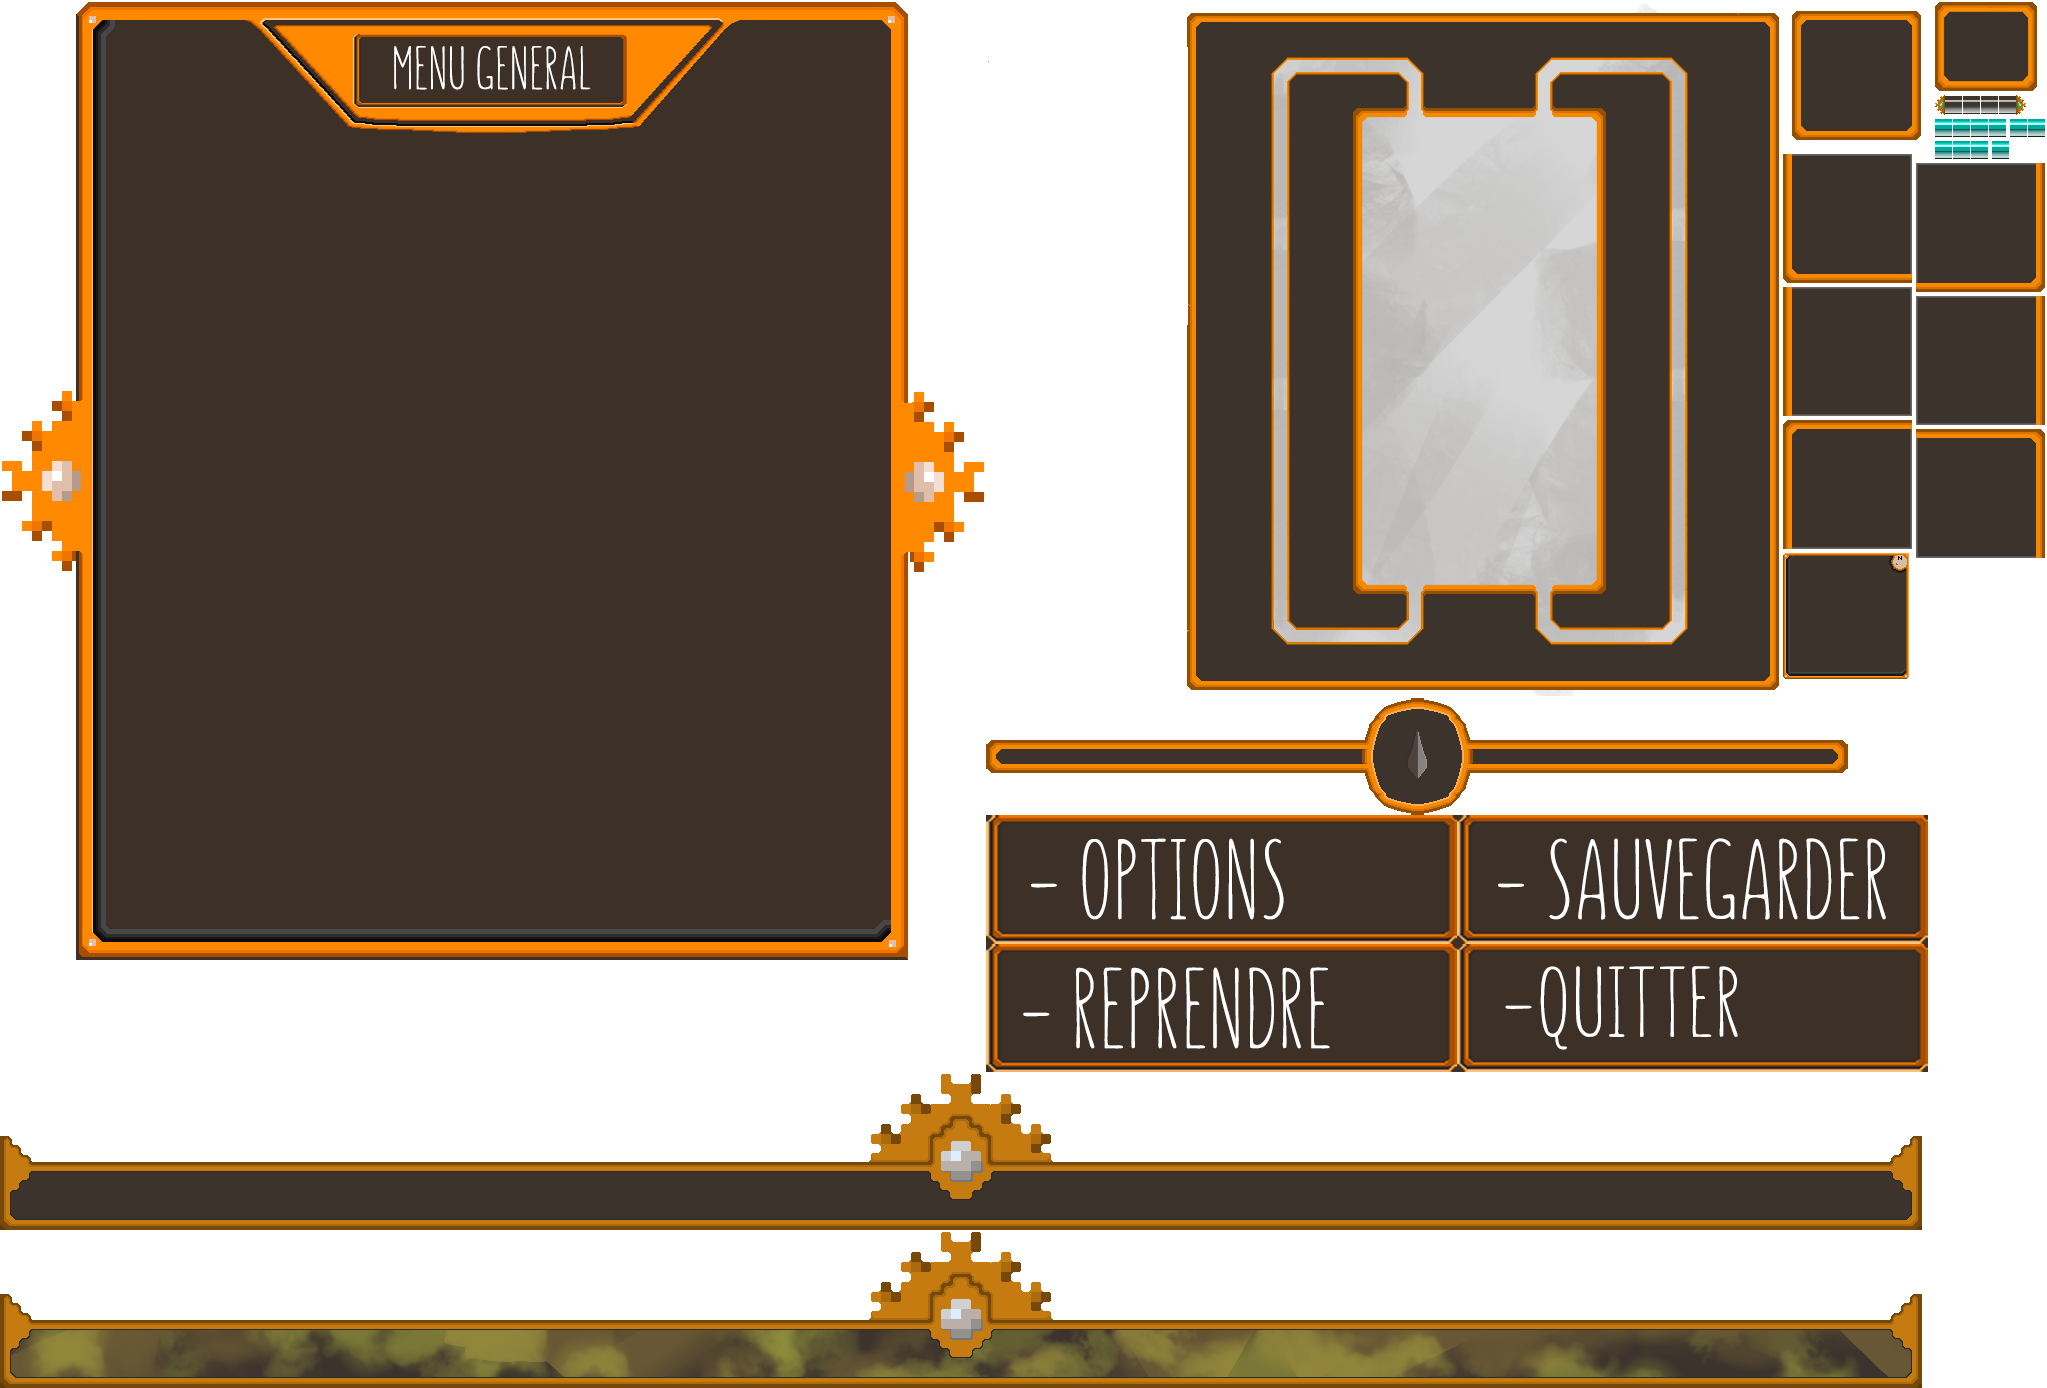
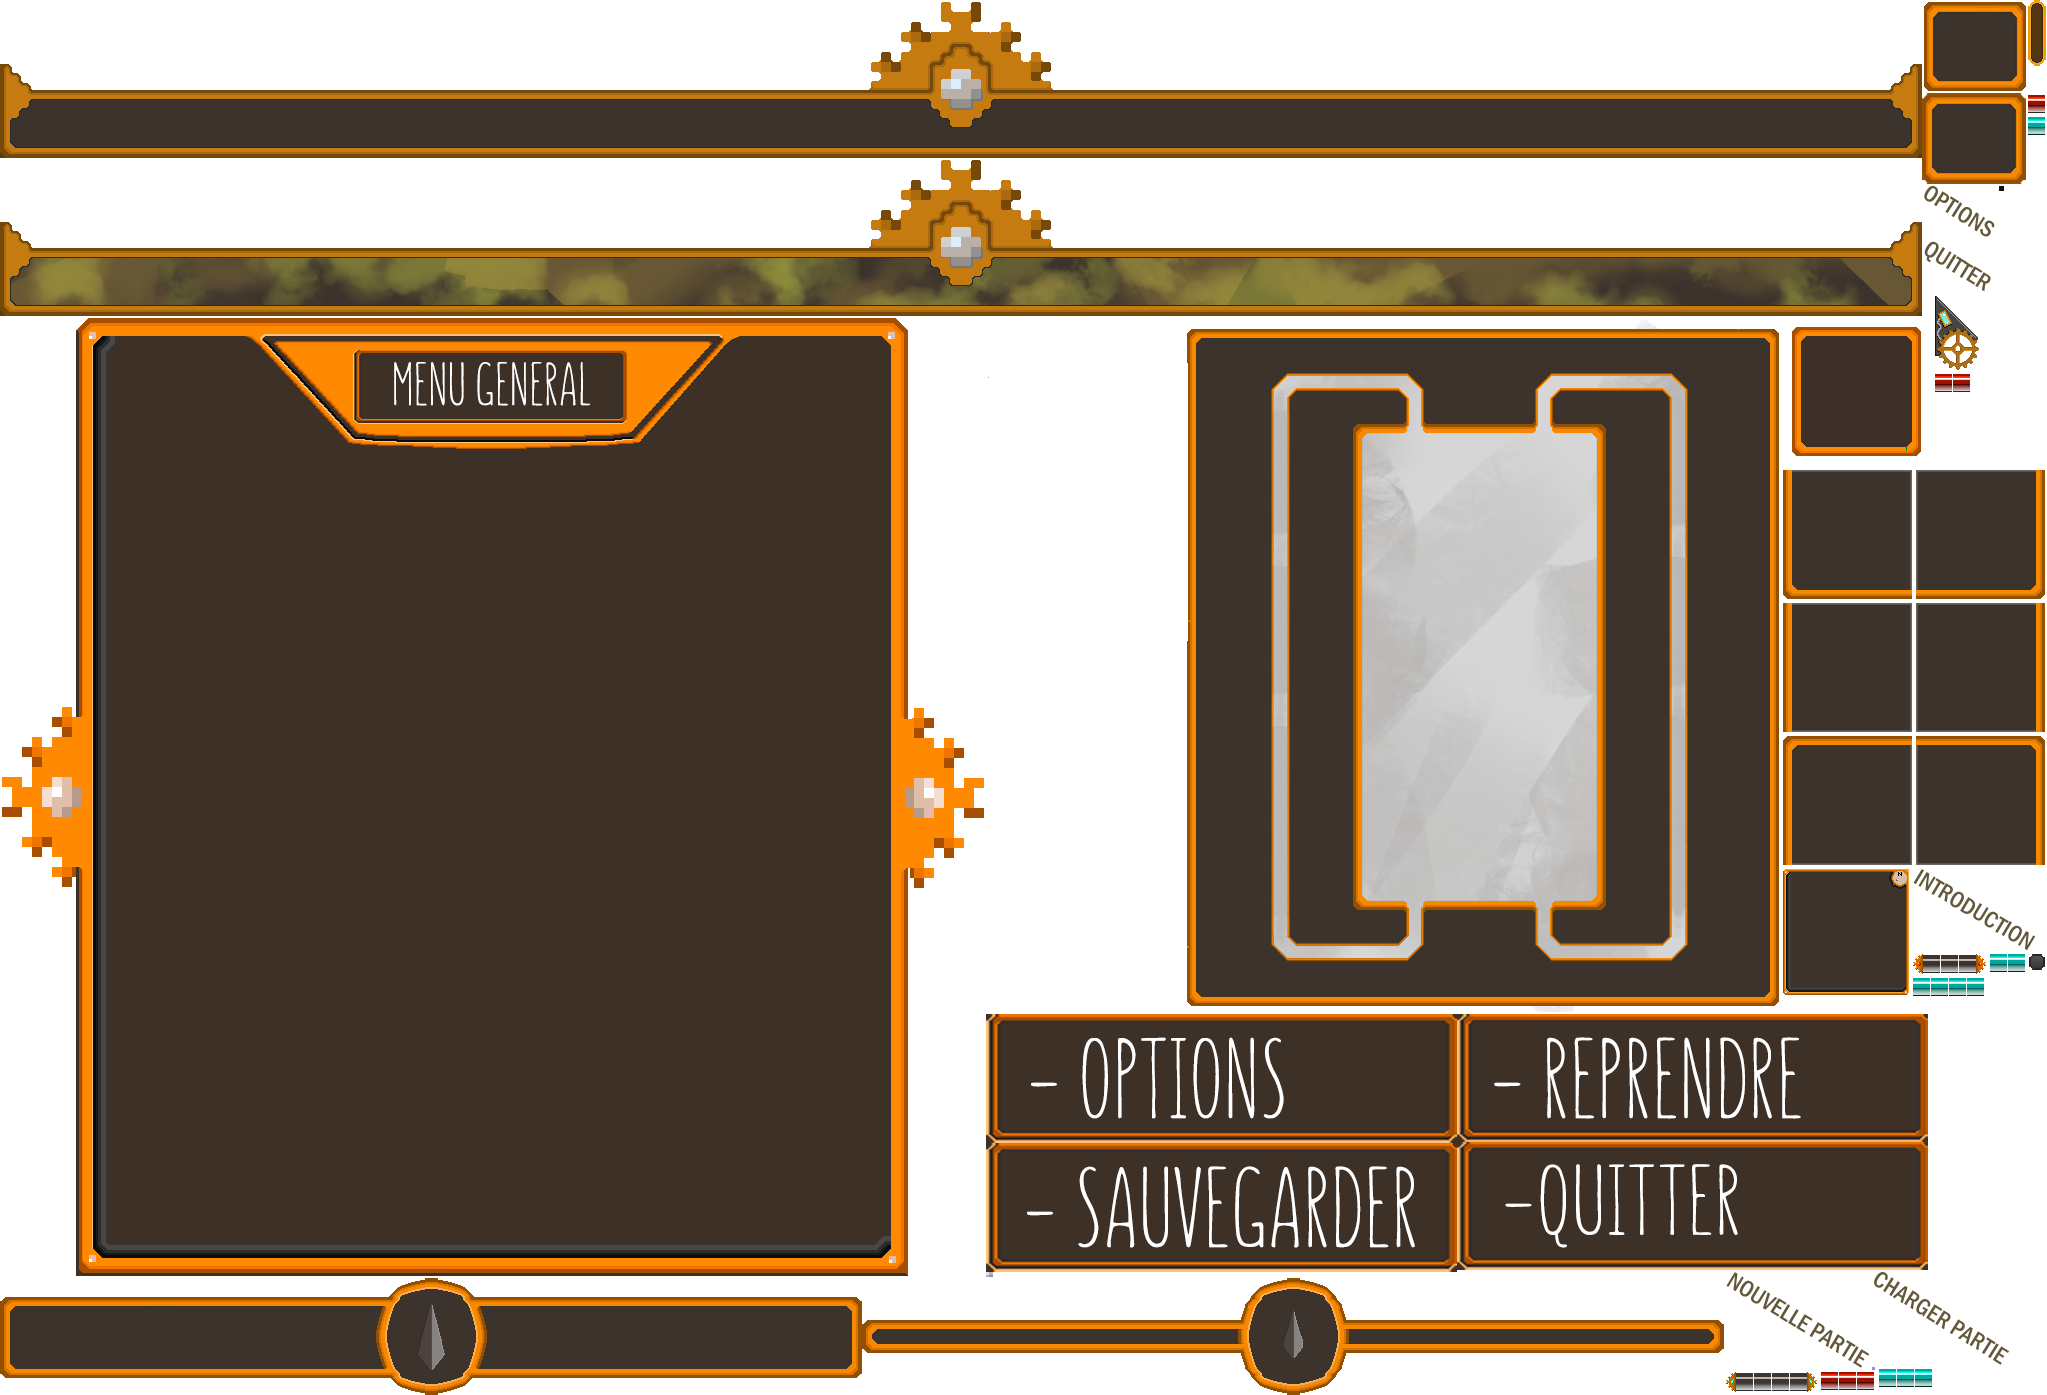
fssdf

diff --git a/core/src/bewareofthetruth/hud/StatusUI.java b/core/src/bewareofthetruth/hud/StatusUI.java
@@ -23,7 +23,7 @@ public class StatusUI extends Window implements StatusSubject {
     private String TAG = StatusUI.class.getSimpleName();
 
     private ImageButton _inventoryButton;
-    private ImageButton _questButton;
+  //  private ImageButton _questButton;
    // private ImageButton _testButton;
     private Array<StatusObserver> _observers;
 
@@ -81,14 +81,14 @@ public class StatusUI extends Window implements StatusSubject {
         Image bar3 = new Image(Utility.STATUSUI_TEXTUREATLAS.findRegion("Bar"));*/
         
         //Test Images
-        _hpBarTest = new Image(Utility.STATUSUI_TEXTUREATLAS_TEST.findRegion("ThreeBar"));
-        Image lifeBar = new Image(Utility.STATUSUI_TEXTUREATLAS_TEST.findRegion("LifeBar"));
-        _waterBarTest = new Image(Utility.STATUSUI_TEXTUREATLAS_TEST.findRegion("FourWaterBar"));
-        Image waterBar = new Image(Utility.STATUSUI_TEXTUREATLAS_TEST.findRegion("WaterBar"));
+       // _hpBarTest = new Image(Utility.STATUSUI_TEXTUREATLAS_TEST.findRegion("ThreeBar"));
+       // Image lifeBar = new Image(Utility.STATUSUI_TEXTUREATLAS_TEST.findRegion("LifeBar"));
+       // _waterBarTest = new Image(Utility.STATUSUI_TEXTUREATLAS_TEST.findRegion("FourWaterBar"));
+      //  Image waterBar = new Image(Utility.STATUSUI_TEXTUREATLAS_TEST.findRegion("WaterBar"));
       //  waterBar.rotateBy(-90);
         
-        _barWidth = _hpBarTest.getWidth();
-        _barHeight = _hpBarTest.getHeight();
+       // _barWidth = _hpBarTest.getWidth();
+       // _barHeight = _hpBarTest.getHeight();
 
 
     /*    //labels
@@ -107,8 +107,8 @@ public class StatusUI extends Window implements StatusSubject {
         _inventoryButton= new ImageButton(Utility.STATUSUI_SKIN, "inventory-button");
         _inventoryButton.getImageCell().size(32, 32);
 
-        _questButton = new ImageButton(Utility.STATUSUI_SKIN, "quest-button");
-        _questButton.getImageCell().size(32,32);
+       // _questButton = new ImageButton(Utility.STATUSUI_SKIN, "quest-button");
+       // _questButton.getImageCell().size(32,32);
 
         //_testButton = new ImageButton(Utility.STATUSUI_SKIN_TEST, "inventory-test-button");
         
@@ -120,14 +120,14 @@ public class StatusUI extends Window implements StatusSubject {
         //Align test Image
 
 
-        _waterBarTest.setPosition(3, 6);
+       // _waterBarTest.setPosition(3, 6);
         //_waterBarTest.setPosition(x, y);
         /*(Gdx.graphics.getWidth() /2 - ( _testHud.getWidth())) + (_testHud.getWidth() /2)
         (waterbar.getX() / 2 - (_waterBarTest.getX())) + (_waterBarTest.getX() / 2)*/
         
         
-        _waterBarTest.setPosition(((waterBar.getX() + waterBar.getWidth()) / 2 - ((_waterBarTest.getX() +_waterBarTest.getWidth())) + ((_waterBarTest.getX() +_waterBarTest.getWidth()) / 2)) +1, waterBar.getY() + ((waterBar.getHeight() - _waterBarTest.getHeight())/2));
-        _hpBarTest.setPosition(((lifeBar.getX() + lifeBar.getWidth()) / 2 - ((_hpBarTest.getX() +_hpBarTest.getWidth())) + ((_hpBarTest.getX() +_hpBarTest.getWidth()) / 2)) +1, lifeBar.getY() + ((lifeBar.getHeight() - _hpBarTest.getHeight())/2));
+       // _waterBarTest.setPosition(((waterBar.getX() + waterBar.getWidth()) / 2 - ((_waterBarTest.getX() +_waterBarTest.getWidth())) + ((_waterBarTest.getX() +_waterBarTest.getWidth()) / 2)) +1, waterBar.getY() + ((waterBar.getHeight() - _waterBarTest.getHeight())/2));
+       // _hpBarTest.setPosition(((lifeBar.getX() + lifeBar.getWidth()) / 2 - ((_hpBarTest.getX() +_hpBarTest.getWidth())) + ((_hpBarTest.getX() +_hpBarTest.getWidth()) / 2)) +1, lifeBar.getY() + ((lifeBar.getHeight() - _hpBarTest.getHeight())/2));
 
         //add to widget groups
     /*    group.addActor(bar);
@@ -138,10 +138,10 @@ public class StatusUI extends Window implements StatusSubject {
         group3.addActor(_xpBar);*/
        
         //Test group
-        group4.addActor(lifeBar);
-        group4.addActor(_hpBarTest);
-        group5.addActor(waterBar);
-        group5.addActor(_waterBarTest);
+      //  group4.addActor(lifeBar);
+      //  group4.addActor(_hpBarTest);
+        //group5.addActor(waterBar);
+       // group5.addActor(_waterBarTest);
         
 
         //Add to layout
@@ -151,7 +151,7 @@ public class StatusUI extends Window implements StatusSubject {
         this.pad(this.getPadTop() + 10, 10, 10, 10);
 
         this.add();
-        this.add(_questButton).align(Align.center);
+        //this.add(_questButton).align(Align.center);
         this.add(_inventoryButton).align(Align.right);
         this.row();
 
@@ -180,15 +180,15 @@ public class StatusUI extends Window implements StatusSubject {
         //this.debug();
        // this.pack();
         
-        this.add(group4).size(lifeBar.getWidth(), lifeBar.getHeight()).padRight(10);
+      //  this.add(group4).size(lifeBar.getWidth(), lifeBar.getHeight()).padRight(10);
         //this.add(_);
         //this.add(_hpValLabel).align(Align.left);
-        this.row();
+      //  this.row();
         
-        this.add(group5).size(waterBar.getWidth(), waterBar.getHeight()).padRight(10);
+       // this.add(group5).size(waterBar.getWidth(), waterBar.getHeight()).padRight(10);
         //this.add(hpLabel);
         //this.add(_hpValLabel).align(Align.left);
-        this.row();
+      //  this.row();
         this.pack();
     }
 
@@ -196,9 +196,9 @@ public class StatusUI extends Window implements StatusSubject {
         return _inventoryButton;
     }
 
-    public ImageButton getQuestButton() {
-        return _questButton;
-    }
+    //public ImageButton getQuestButton() {
+   //     return _questButton;
+   // }
 
     public int getLevelValue(){
         return _levelVal;

diff --git a/core/src/bewareofthetruth/hud/PlayerHUD.java b/core/src/bewareofthetruth/hud/PlayerHUD.java
@@ -113,11 +113,11 @@ public class PlayerHUD implements Screen, AudioSubject, ProfileObserver,Componen
         _statusUI.setKeepWithinStage(false);
         _statusUI.setMovable(false);
         
-        _testHud = new TestHud();
+      /*  _testHud = new TestHud();
         _testHud.setVisible(true);
         _testHud.setPosition((Gdx.graphics.getWidth() /2 - ( _testHud.getWidth())) + (_testHud.getWidth() /2), 0);    
         _testHud.setKeepWithinStage(false);
-        _testHud.setMovable(false);
+        _testHud.setMovable(false);*/
 
         _inventoryUI = new InventoryUI();
         _inventoryUI.setKeepWithinStage(false);
@@ -158,7 +158,7 @@ public class PlayerHUD implements Screen, AudioSubject, ProfileObserver,Componen
         _stage.addActor(_conversationUI);
         _stage.addActor(_messageBoxUI);
         _stage.addActor(_statusUI);
-        _stage.addActor(_testHud);
+      //  _stage.addActor(_testHud);
         _stage.addActor(_inventoryUI);
       //  _stage.addActor(_clock);
 
@@ -169,7 +169,7 @@ public class PlayerHUD implements Screen, AudioSubject, ProfileObserver,Componen
         _messageBoxUI.validate();
         _statusUI.validate();
         _inventoryUI.validate();
-        _testHud.validate();
+      //  _testHud.validate();
        // _clock.validate();
 
         //add tooltips to the stage
@@ -189,7 +189,7 @@ public class PlayerHUD implements Screen, AudioSubject, ProfileObserver,Componen
         //Observers
         _player.registerObserver(this);
         _statusUI.addObserver(this);
-        _testHud.addObserver(this);
+       // _testHud.addObserver(this);
         _storeInventoryUI.addObserver(this);
       //  _inventoryUI.addObserver(_battleUI.getCurrentState());
         _inventoryUI.addObserver(this);
@@ -204,19 +204,19 @@ public class PlayerHUD implements Screen, AudioSubject, ProfileObserver,Componen
             }
         });
         
-        ImageButton testButton = _testHud.getTestButton();
-        testButton.addListener(new ClickListener() {
-            public void clicked(InputEvent event, float x, float y) {
-            	//_testHud.setVisible(_testHud.isVisible() ? false : true);
-            }
-        });
+       // ImageButton testButton = _testHud.getTestButton();
+      //  testButton.addListener(new ClickListener() {
+      //      public void clicked(InputEvent event, float x, float y) {
+      //      	//_testHud.setVisible(_testHud.isVisible() ? false : true);
+     //       }
+     //   });
 
-        ImageButton questButton = _statusUI.getQuestButton();
+       /* ImageButton questButton = _statusUI.getQuestButton();
         questButton.addListener(new ClickListener() {
             public void clicked(InputEvent event, float x, float y) {
                 _questUI.setVisible(_questUI.isVisible() ? false : true);
             }
-        });
+        });*/
 
         _conversationUI.getCloseButton().addListener(new ClickListener() {
                                                          @Override

diff --git a/core/src/bewareofthetruth/utility/Utility.java b/core/src/bewareofthetruth/utility/Utility.java
@@ -21,10 +21,13 @@ public final class Utility {
 
 	private static InternalFileHandleResolver _filePathResolver =  new InternalFileHandleResolver();
 
-	private final static String STATUSUI_TEXTURE_ATLAS_PATH = "skins/statusui.atlas";
-	private final static String STATUSUI_SKIN_PATH = "skins/statusui.json";
+	//private final static String STATUSUI_TEXTURE_ATLAS_PATH = "skins/statusui.atlas";
+	//private final static String STATUSUI_SKIN_PATH = "skins/statusui.json";
 	private final static String ITEMS_TEXTURE_ATLAS_PATH = "skins/items.atlas";
 	private final static String ITEMS_SKIN_PATH = "skins/items.json";
+	
+	private final static String STATUSUI_TEXTURE_ATLAS_PATH = "skins/hud.atlas";
+	private final static String STATUSUI_SKIN_PATH = "skins/hud.json";
 	
 	//private final static String STATUSUI_TEXTURE_ATLAS_PATH_TEST = "skins/test/statustest.atlas";
 	//public static TextureAtlas STATUSUI_TEXTUREATLAS_TEST = new TextureAtlas(Gdx.files.internal(STATUSUI_TEXTURE_ATLAS_PATH_TEST));
@@ -33,11 +36,11 @@ public final class Utility {
 	//public static Skin STATUSUI_SKIN_TEST = new Skin( Gdx.files.internal(STATUSUI_SKIN_PATH_TEST),STATUSUI_TEXTUREATLAS_TEST);
 	//public static TextureRegion REDUCTED_INVENTORY = STATUSUI_SKIN_TEST.get("ReductInventoryInGame",TextureRegion.class);
 	
-	private final static String STATUSUI_TEXTURE_ATLAS_PATH_TEST = "skins/hud.atlas";
-	public static TextureAtlas STATUSUI_TEXTUREATLAS_TEST = new TextureAtlas(Gdx.files.internal(STATUSUI_TEXTURE_ATLAS_PATH_TEST));
+	//private final static String STATUSUI_TEXTURE_ATLAS_PATH_TEST = "skins/hud.atlas";
+	//public static TextureAtlas STATUSUI_TEXTUREATLAS_TEST = new TextureAtlas(Gdx.files.internal(STATUSUI_TEXTURE_ATLAS_PATH));
 	//public static Skin STATUSUI_SKIN_TEST = new Skin( STATUSUI_TEXTUREATLAS_TEST);
-	private final static String STATUSUI_SKIN_PATH_TEST = "skins/hud.json";
-	public static Skin STATUSUI_SKIN_TEST = new Skin( Gdx.files.internal(STATUSUI_SKIN_PATH_TEST),STATUSUI_TEXTUREATLAS_TEST);
+	//private final static String STATUSUI_SKIN_PATH_TEST = "skins/hud.json";
+	//public static Skin STATUSUI_SKIN_TEST = new Skin( Gdx.files.internal(STATUSUI_SKIN_PATH_TEST),STATUSUI_TEXTUREATLAS_TEST);
 	
 	public static TextureAtlas STATUSUI_TEXTUREATLAS = new TextureAtlas(STATUSUI_TEXTURE_ATLAS_PATH);
 	public static TextureAtlas ITEMS_TEXTUREATLAS = new TextureAtlas(ITEMS_TEXTURE_ATLAS_PATH);

diff --git a/core/src/bewareofthetruth/screens/MainMenuScreen.java b/core/src/bewareofthetruth/screens/MainMenuScreen.java
@@ -43,15 +43,15 @@ public class MainMenuScreen extends GameScreen {
 		Table table = new Table();
 		table.setFillParent(true);
 
-		Image title = new Image(Utility.STATUSUI_TEXTUREATLAS.findRegion("bludbourne_title"));
-		TextButton newGameButton = new TextButton("New Game", Utility.STATUSUI_SKIN);
-		TextButton optionsButton = new TextButton("Options", Utility.STATUSUI_SKIN);
+		//Image title = new Image(Utility.STATUSUI_TEXTUREATLAS.findRegion("bludbourne_title"));
+		TextButton newGameButton = new TextButton("Nouvelle partie", Utility.STATUSUI_SKIN);
+		TextButton optionsButton = new TextButton("OPTIONS", Utility.STATUSUI_SKIN);
 
 		//_inventoryButton = new Image(Utility.STATUSUI_SKIN_TEST, "ReductInventoryInGame");
-		TextButton loadGameButton = new TextButton("Load Game", Utility.STATUSUI_SKIN);
-		TextButton watchIntroButton = new TextButton("Watch Intro", Utility.STATUSUI_SKIN);
+		TextButton loadGameButton = new TextButton("Charger Partie", Utility.STATUSUI_SKIN);
+	//	TextButton watchIntroButton = new TextButton("Watch Intro", Utility.STATUSUI_SKIN);
 		//TextButton creditsButton = new TextButton("Credits", Utility.STATUSUI_SKIN);
-		TextButton exitButton = new TextButton("Exit",Utility.STATUSUI_SKIN);
+		TextButton exitButton = new TextButton("QUITTER",Utility.STATUSUI_SKIN);
 
 		//Pixmap pm = new Pixmap(Gdx.files.internal("sprites/hud/hud.cursor/Cursor.png"));
 		//Gdx.graphics.setCursor(Gdx.graphics.newCursor(pm, 0, 0));
@@ -66,8 +66,8 @@ public class MainMenuScreen extends GameScreen {
 
 
 		//Layout
-		table.add(title).spaceBottom(75).row();
-		table.add(watchIntroButton).spaceBottom(10).row();
+		//table.add(title).spaceBottom(75).row();
+		//table.add(watchIntroButton).spaceBottom(10).row();
 		table.add(newGameButton).spaceBottom(10).row();
 		table.add(loadGameButton).spaceBottom(10).row();
 		table.add(optionsButton).spaceBottom(10).row();
@@ -151,7 +151,7 @@ public class MainMenuScreen extends GameScreen {
 							   }
 		);
 
-		watchIntroButton.addListener(new ClickListener() {
+		/*watchIntroButton.addListener(new ClickListener() {
 
 										 @Override
 										 public boolean touchDown(InputEvent event, float x, float y, int pointer, int button) {

diff --git a/core/src/bewareofthetruth/hud/TestHud.java b/core/src/bewareofthetruth/hud/TestHud.java
@@ -12,13 +12,13 @@ import bewareofthetruth.inventory.StatusObserver.StatusEvent;
 import bewareofthetruth.utility.Utility;
 import bewareofthetruth.inventory.StatusSubject;
 
-public class TestHud extends Window implements StatusSubject {
+public class TestHud/* extends Window implements StatusSubject*/ {
 
-	 private ImageButton _testButton;
-	 private Array<StatusObserver> _observers;
+	/* private ImageButton _testButton;
+	 private Array<StatusObserver> _observers;*/
 	 
-	 public TestHud() {
-		 super("test", Utility.STATUSUI_SKIN);
+	 //public TestHud() {
+		/* super("test", Utility.STATUSUI_SKIN);
 		 
 		 _observers = new Array<StatusObserver>();
 		 
@@ -32,10 +32,10 @@ public class TestHud extends Window implements StatusSubject {
 	        //this.setColor(Color.CLEAR);
 	        //this.setBackground(background);
 	       // this.row();
-	        this.add(_testButton)/*.align(Align.bottomRight)*/;
+	        this.add(_testButton)/*.align(Align.bottomRight)*///;
 	        //this.debug();
-	        this.pack();
-	 }
+	       // this.pack();
+	/* }
 	 
 	 public ImageButton getTestButton() {
 		 return this._testButton;
@@ -64,5 +64,5 @@ public class TestHud extends Window implements StatusSubject {
 	            observer.onNotify(value, event);
 	        }
 	    }
-
+*/
 }

diff --git a/core/src/bewareofthetruth/inventory/InventorySlot.java b/core/src/bewareofthetruth/inventory/InventorySlot.java
@@ -27,7 +27,8 @@ public class InventorySlot extends Stack implements InventorySlotSubject {
         _defaultBackground = new Stack();
         _customBackgroundDecal = new Image();
         _observers = new Array<InventorySlotObserver>();
-        Image image = new Image(new NinePatch(Utility.STATUSUI_TEXTUREATLAS.createPatch("dialog")));
+        //TODO repere
+        Image image = new Image(new NinePatch(/*Utility.STATUSUI_TEXTUREATLAS.createPatch("dialog"))*/Utility.STATUSUI_TEXTUREATLAS.createPatch("case_modulable")));
 
         _numItemsLabel = new Label(String.valueOf(_numItemsVal), Utility.STATUSUI_SKIN, "inventory-item-count");
         _numItemsLabel.setAlignment(Align.bottomRight);

diff --git a/core/src/bewareofthetruth/inventory/InventoryUI.java b/core/src/bewareofthetruth/inventory/InventoryUI.java
@@ -126,7 +126,8 @@ public class InventoryUI extends Window implements InventorySubject, InventorySl
         _dragAndDrop.addTarget(new InventorySlotTarget(rightArmSlot));
         _dragAndDrop.addTarget(new InventorySlotTarget(legsSlot));
 
-        _playerSlotsTable.setBackground(new Image(new NinePatch(Utility.STATUSUI_TEXTUREATLAS.createPatch("dialog"))).getDrawable());
+        //TODO attention
+        _playerSlotsTable.setBackground(new Image(new NinePatch(Utility.STATUSUI_TEXTUREATLAS.createPatch("case_modulable"))).getDrawable());
 
         //layout
         for(int i = 1; i <= _numSlots; i++){

diff --git a/desktop/src/com/beware/game/desktop/DesktopLauncher.java b/desktop/src/com/beware/game/desktop/DesktopLauncher.java
@@ -8,6 +8,7 @@ import bewareofthetruth.main.Main;
 
 public class DesktopLauncher {
 	public static void main(String [] arg) {
+		
 		LwjglApplicationConfiguration config = new LwjglApplicationConfiguration();
 		config.width = 1920;
 		config.height = 1080;
